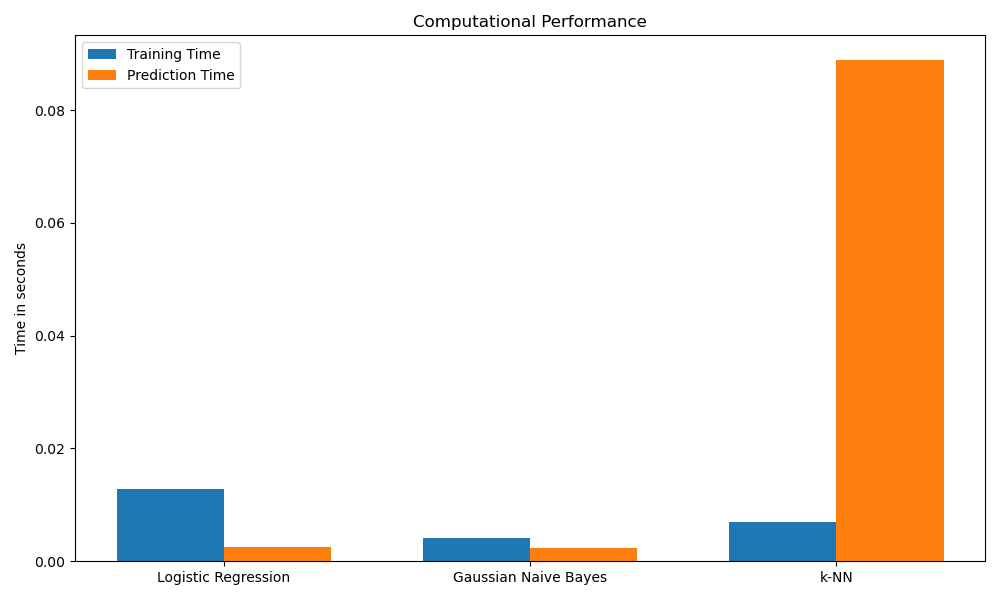
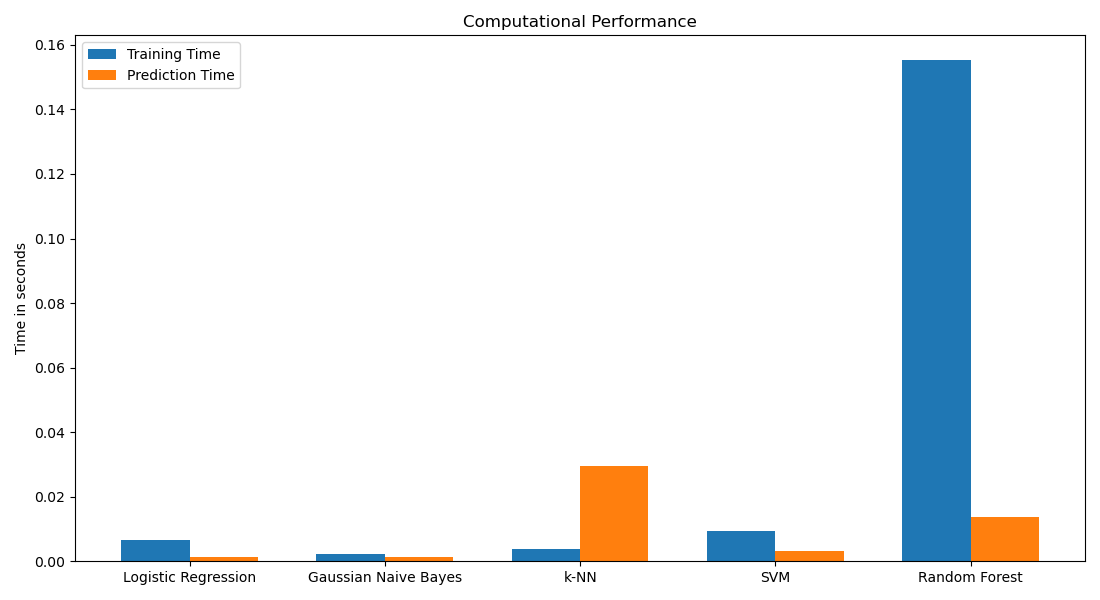
Plots + edit for SVM n Random Forest

diff --git a/main.py b/main.py
@@ -1,7 +1,8 @@
 import time
-import pandas as pd
-import numpy as np
+
 import matplotlib.pyplot as plt
+import numpy as np
+import pandas as pd
 
 from sklearn.model_selection import train_test_split
 from sklearn.pipeline import Pipeline
@@ -10,6 +11,8 @@ from sklearn.preprocessing import StandardScaler
 from sklearn.linear_model import LogisticRegression
 from sklearn.naive_bayes import GaussianNB
 from sklearn.neighbors import KNeighborsClassifier
+from sklearn.svm import SVC
+from sklearn.ensemble import RandomForestClassifier
 
 from sklearn.metrics import (
     accuracy_score,
@@ -102,7 +105,6 @@ X_train, X_test, y_train, y_test = train_test_split(
 # ============================================================
 # 4. Modelle
 # ============================================================
-
 models = {
 
     "Logistic Regression": Pipeline([
@@ -120,20 +122,30 @@ models = {
         ("model", KNeighborsClassifier(
             n_neighbors=5
         ))
-    ])
+    ]),
+
+    "SVM": Pipeline([
+        ("scaler", StandardScaler()),
+        ("model", SVC(
+            probability=False,
+            random_state=42
+        ))
+    ]),
+
+    "Random Forest": RandomForestClassifier(
+        n_estimators=100,
+        random_state=42,
+        n_jobs=-1
+    )
 }
 
-
 # ============================================================
-# 5. Funktion zur Modellbewertung
+# 5. Modell bewerten
 # ============================================================
 
 def evaluate_model(name, model):
 
-    # --------------------
-    # Training
-    # --------------------
-
+    # Trainingszeit
     start = time.perf_counter()
 
     model.fit(X_train, y_train)
@@ -141,10 +153,7 @@ def evaluate_model(name, model):
     training_time = time.perf_counter() - start
 
 
-    # --------------------
-    # Prediction
-    # --------------------
-
+    # Vorhersagezeit
     start = time.perf_counter()
 
     y_pred = model.predict(X_test)
@@ -152,10 +161,7 @@ def evaluate_model(name, model):
     prediction_time = time.perf_counter() - start
 
 
-    # --------------------
     # Metriken
-    # --------------------
-
     metrics = {
         "Accuracy": accuracy_score(y_test, y_pred),
         "Precision": precision_score(y_test, y_pred),
@@ -166,10 +172,7 @@ def evaluate_model(name, model):
     }
 
 
-    # --------------------
     # Ausgabe
-    # --------------------
-
     print("\n" + "=" * 55)
     print(name.upper())
     print("=" * 55)
@@ -191,7 +194,6 @@ def evaluate_model(name, model):
 
     print("\nConfusion Matrix:")
     print(confusion_matrix(y_test, y_pred))
-
 
     return metrics, y_pred
 
@@ -219,10 +221,12 @@ for name, model in models.items():
 # 7. Confusion Matrices
 # ============================================================
 
+number_of_models = len(models)
+
 fig, axes = plt.subplots(
     1,
-    3,
-    figsize=(15, 4)
+    number_of_models,
+    figsize=(5 * number_of_models, 4)
 )
 
 
@@ -234,10 +238,7 @@ for ax, (name, y_pred) in zip(
     ConfusionMatrixDisplay.from_predictions(
         y_test,
         y_pred,
-        display_labels=[
-            "Benign",
-            "Malignant"
-        ],
+        display_labels=["Benign", "Malignant"],
         ax=ax,
         colorbar=False
     )
@@ -251,10 +252,11 @@ fig.suptitle(
 
 plt.tight_layout()
 
-# Optional für dein Paper:
+# Für das Paper:
 # plt.savefig(
 #     "confusion_matrices.png",
-#     dpi=300
+#     dpi=300,
+#     bbox_inches="tight"
 # )
 
 plt.show()
@@ -280,7 +282,6 @@ for name, model in models.items():
     )
 
 
-# Zufallsklassifikator
 ax.plot(
     [0, 1],
     [0, 1],
@@ -296,10 +297,10 @@ ax.legend()
 
 plt.tight_layout()
 
-# Optional:
 # plt.savefig(
 #     "roc_curves.png",
-#     dpi=300
+#     dpi=300,
+#     bbox_inches="tight"
 # )
 
 plt.show()
@@ -321,11 +322,13 @@ x = np.arange(
     len(metric_names)
 )
 
-width = 0.25
+number_of_models = len(models)
+
+width = 0.8 / number_of_models
 
 
 fig, ax = plt.subplots(
-    figsize=(10, 6)
+    figsize=(11, 6)
 )
 
 
@@ -338,13 +341,12 @@ for index, (name, metrics) in enumerate(
         for metric in metric_names
     ]
 
-    position = (
-        x
-        + (index - 1) * width
-    )
+    offset = (
+        index - (number_of_models - 1) / 2
+    ) * width
 
     ax.bar(
-        position,
+        x + offset,
         values,
         width,
         label=name
@@ -374,10 +376,10 @@ ax.legend()
 
 plt.tight_layout()
 
-# Optional:
 # plt.savefig(
 #     "performance_comparison.png",
-#     dpi=300
+#     dpi=300,
+#     bbox_inches="tight"
 # )
 
 plt.show()
@@ -412,7 +414,7 @@ width = 0.35
 
 
 fig, ax = plt.subplots(
-    figsize=(10, 6)
+    figsize=(11, 6)
 )
 
 
@@ -449,10 +451,10 @@ ax.legend()
 
 plt.tight_layout()
 
-# Optional:
 # plt.savefig(
 #     "runtime_comparison.png",
-#     dpi=300
+#     dpi=300,
+#     bbox_inches="tight"
 # )
 
 plt.show()
